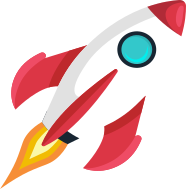
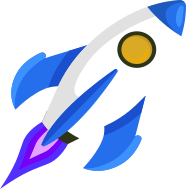
Alteração da cor dos elementos

diff --git a/index.css b/index.css
@@ -2,7 +2,10 @@ body {
 	margin: 0;
 	padding: 0;
 	background: url(images/galaxia.jpg);
+    background-repeat: no-repeat;
 	background-size: cover;
+    background-position: center;
+    height: 100vh;
 	overflow: hidden;
 }
 
